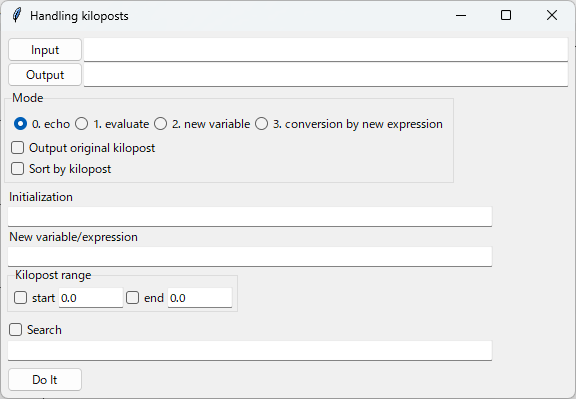
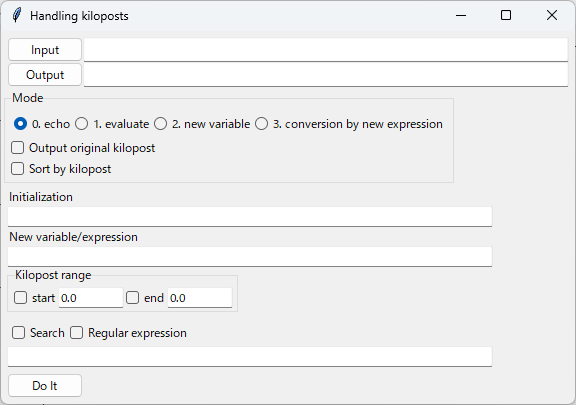
ドキュメント整備。

diff --git a/CHANGELOG.md b/CHANGELOG.md
@@ -5,7 +5,7 @@
 - プロット画面
   - 任意角度への回転
 
-## [1.8.1] - 2024-11-xx
+## [1.8.1] - 2024-11-13
 
 - Python本体の最低バージョンを3.9以上に変更
 - Handling kilopost
@@ -16,9 +16,10 @@
 	- "Output original kilopost" チェックボックスで指定
   - 出力の距離程によるソートに対応
     - "Sort by kilopost" チェックボックスで設定
-  - 特定のマップ要素のみの出力に対応（実験的）
+  - 特定のマップ要素のみの出力に対応
     - "Search" チェックボックで有効化
 	- "Search" フィールドに入力した文字列と一致するマップ要素のみファイルへ出力する
+	- 正規表現での検索条件指定も可能
 	  
 
 ## [1.8.0] - 2024-10-30
